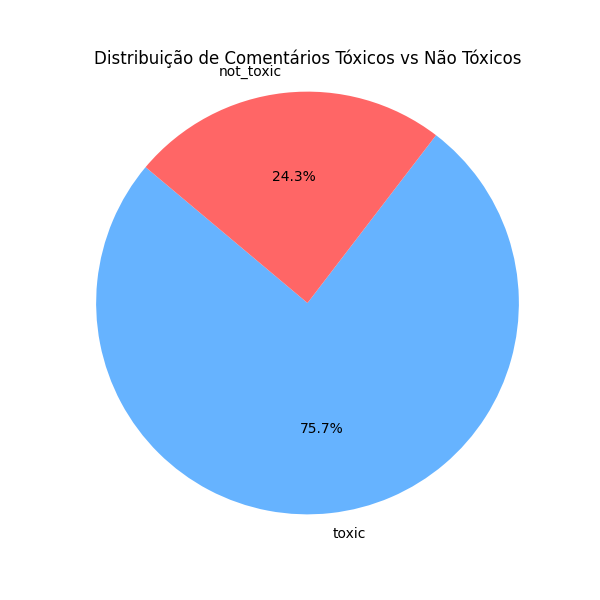
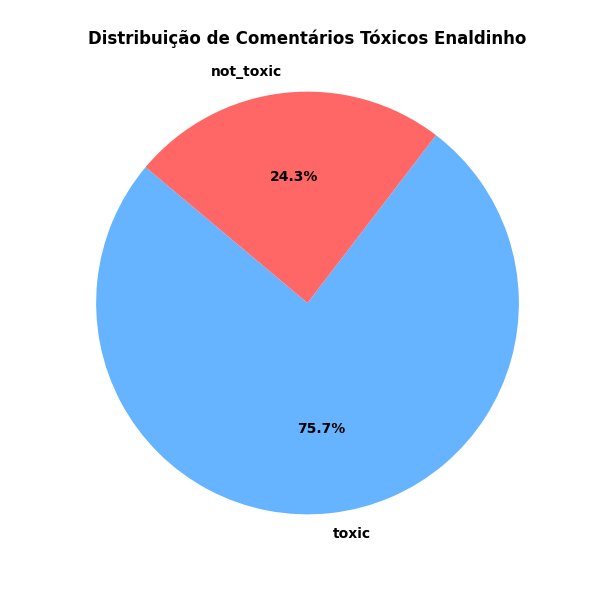
fix: correcoes finais

diff --git a/classificar_ofensas.py b/classificar_ofensas.py
@@ -3,7 +3,7 @@ import re
 from collections import Counter
 import matplotlib.pyplot as plt
 # 1. Carregar o CSV filtrado
-df = pd.read_csv('TCC/Comentarios_Filtrados/comentarios_filtrados_resendeevil.csv')
+df = pd.read_csv('TCC/Comentarios_Filtrados/comentarios_filtrados_enaldinho.csv')
 
 mapeamento_categorias = {
     # Racismo
@@ -168,14 +168,25 @@ labels = list(porcentagem_categorias.keys())
 sizes = list(porcentagem_categorias.values())
 colors = [cores[label] for label in labels]
 
-# 9. Gráfico de pizza
-plt.figure(figsize=(8, 8))
-plt.pie(sizes, labels=labels, autopct='%1.1f%%', startangle=140, colors=colors)
-plt.axis('equal')
-plt.title('Distribuição de Categorias de Ofensas - Resendeevil')
+# 9. Gráfico de barras horizontais
+plt.figure(figsize=(10, 6))
+bars = plt.barh(labels, sizes, color=colors)
+plt.xlabel('Porcentagem (%)', fontweight='bold')
+plt.title('Distribuição de Categorias de Ofensas - Enaldinho', fontweight='bold')
+plt.grid(axis='x', linestyle='--', alpha=0.7)
+plt.xlim(0, 50)  # Limitar o eixo X até 50%
+plt.yticks(fontweight='bold')  # Deixa os labels do eixo Y em negrito
+
+# Exibir valores nas barras em negrito
+for bar in bars:
+    width = bar.get_width()
+    plt.text(width + 0.5, bar.get_y() + bar.get_height() / 2, f'{width:.1f}%', 
+             va='center', fontweight='bold')
 
 # 10. Salvar e exibir
-plt.savefig('TCC/Resultados/resendeevil.png', dpi=300, bbox_inches='tight')
+plt.tight_layout()
+plt.savefig('TCC/Resultados/enaldinho.png', dpi=300, bbox_inches='tight')
 plt.show()
 
 print("\nGráfico salvo")
+

diff --git a/toxic_bert.py b/toxic_bert.py
@@ -22,8 +22,9 @@ def classifica_comentario(texto, threshold=0.05):
                 return "not_toxic"
     
     return "not_toxic"
+
 # Carregar e classificar os comentários
-df = pd.read_csv("Comentarios_Filtrados/comentarios_filtrados_resendeevil.csv")
+df = pd.read_csv("Comentarios_Filtrados/comentarios_filtrados_camila_loures.csv")
 df['classificacao'] = df['comment_text'].apply(classifica_comentario)
 
 df.to_csv("Toxic/toxic_camila_loures.csv", index=False)
@@ -31,12 +32,20 @@ df.to_csv("Toxic/toxic_camila_loures.csv", index=False)
 # Contagem para o gráfico
 contagem = df['classificacao'].value_counts()
 
-# Gráfico de pizza
+# Gráfico de pizza com textos em negrito e título com espaçamento maior
 plt.figure(figsize=(6, 6))
-plt.pie(contagem, labels=contagem.index, autopct='%1.1f%%', startangle=140, colors=["#66b3ff", "#ff6666"])
-plt.title("Distribuição de Comentários Tóxicos vs Não Tóxicos")
+wedges, texts, autotexts = plt.pie(
+    contagem,
+    labels=contagem.index,
+    autopct='%1.1f%%',
+    startangle=140,
+    colors=["#66b3ff", "#ff6666"],
+    textprops={'fontweight': 'bold'}  # Negrito nos textos
+)
+
+plt.title("Distribuição de Comentários Tóxicos Camila Loures", fontweight='bold', pad=20)  # Título em negrito e espaçamento maior
 plt.axis('equal')
 
 # Salvar gráfico na pasta Toxic
-plt.savefig("Toxic/resendeevil_toxicidade.png")
+plt.savefig("Toxic/camila_loures_toxicidade.png")
 plt.show()

diff --git a/coletar_comentarios_youtube.py b/coletar_comentarios_youtube.py
@@ -2,12 +2,21 @@ import requests
 import pandas as pd
 from tqdm import tqdm
 
-# Sua chave de API do YouTube Data
+# chave de API
 API_KEY = ""
 
-# IDs ou URLs dos vídeos de desafio do Enaldinho
+
 video_ids = [
-      "ounRlEoxIb8", "VZNqfLWxvcQ", "DkbsuIPgrtc", "Ofv8NhlIN-A", "B7uM4y301uU", "WsmGpNduvNY", "ORSQrg93eFg", "NT6bCf-r9JY", "C8vI-nO7s6s", "9TbzIKWtvOc",
+      "ounRlEoxIb8", 
+      "VZNqfLWxvcQ",
+        "DkbsuIPgrtc", 
+        "Ofv8NhlIN-A", 
+        "B7uM4y301uU", 
+        "WsmGpNduvNY", 
+        "ORSQrg93eFg", 
+        "NT6bCf-r9JY", 
+        "C8vI-nO7s6s", 
+        "9TbzIKWtvOc",
       "Bykdn5SrtM0",
       "5uSPSVNEQ6s",
       "TYWrS9lbHVo",
@@ -16,7 +25,6 @@ video_ids = [
 
 ]
 
-# Função para extrair comentários de um vídeo
 def get_comments(video_id, api_key):
     comments = []
     next_page_token = None
